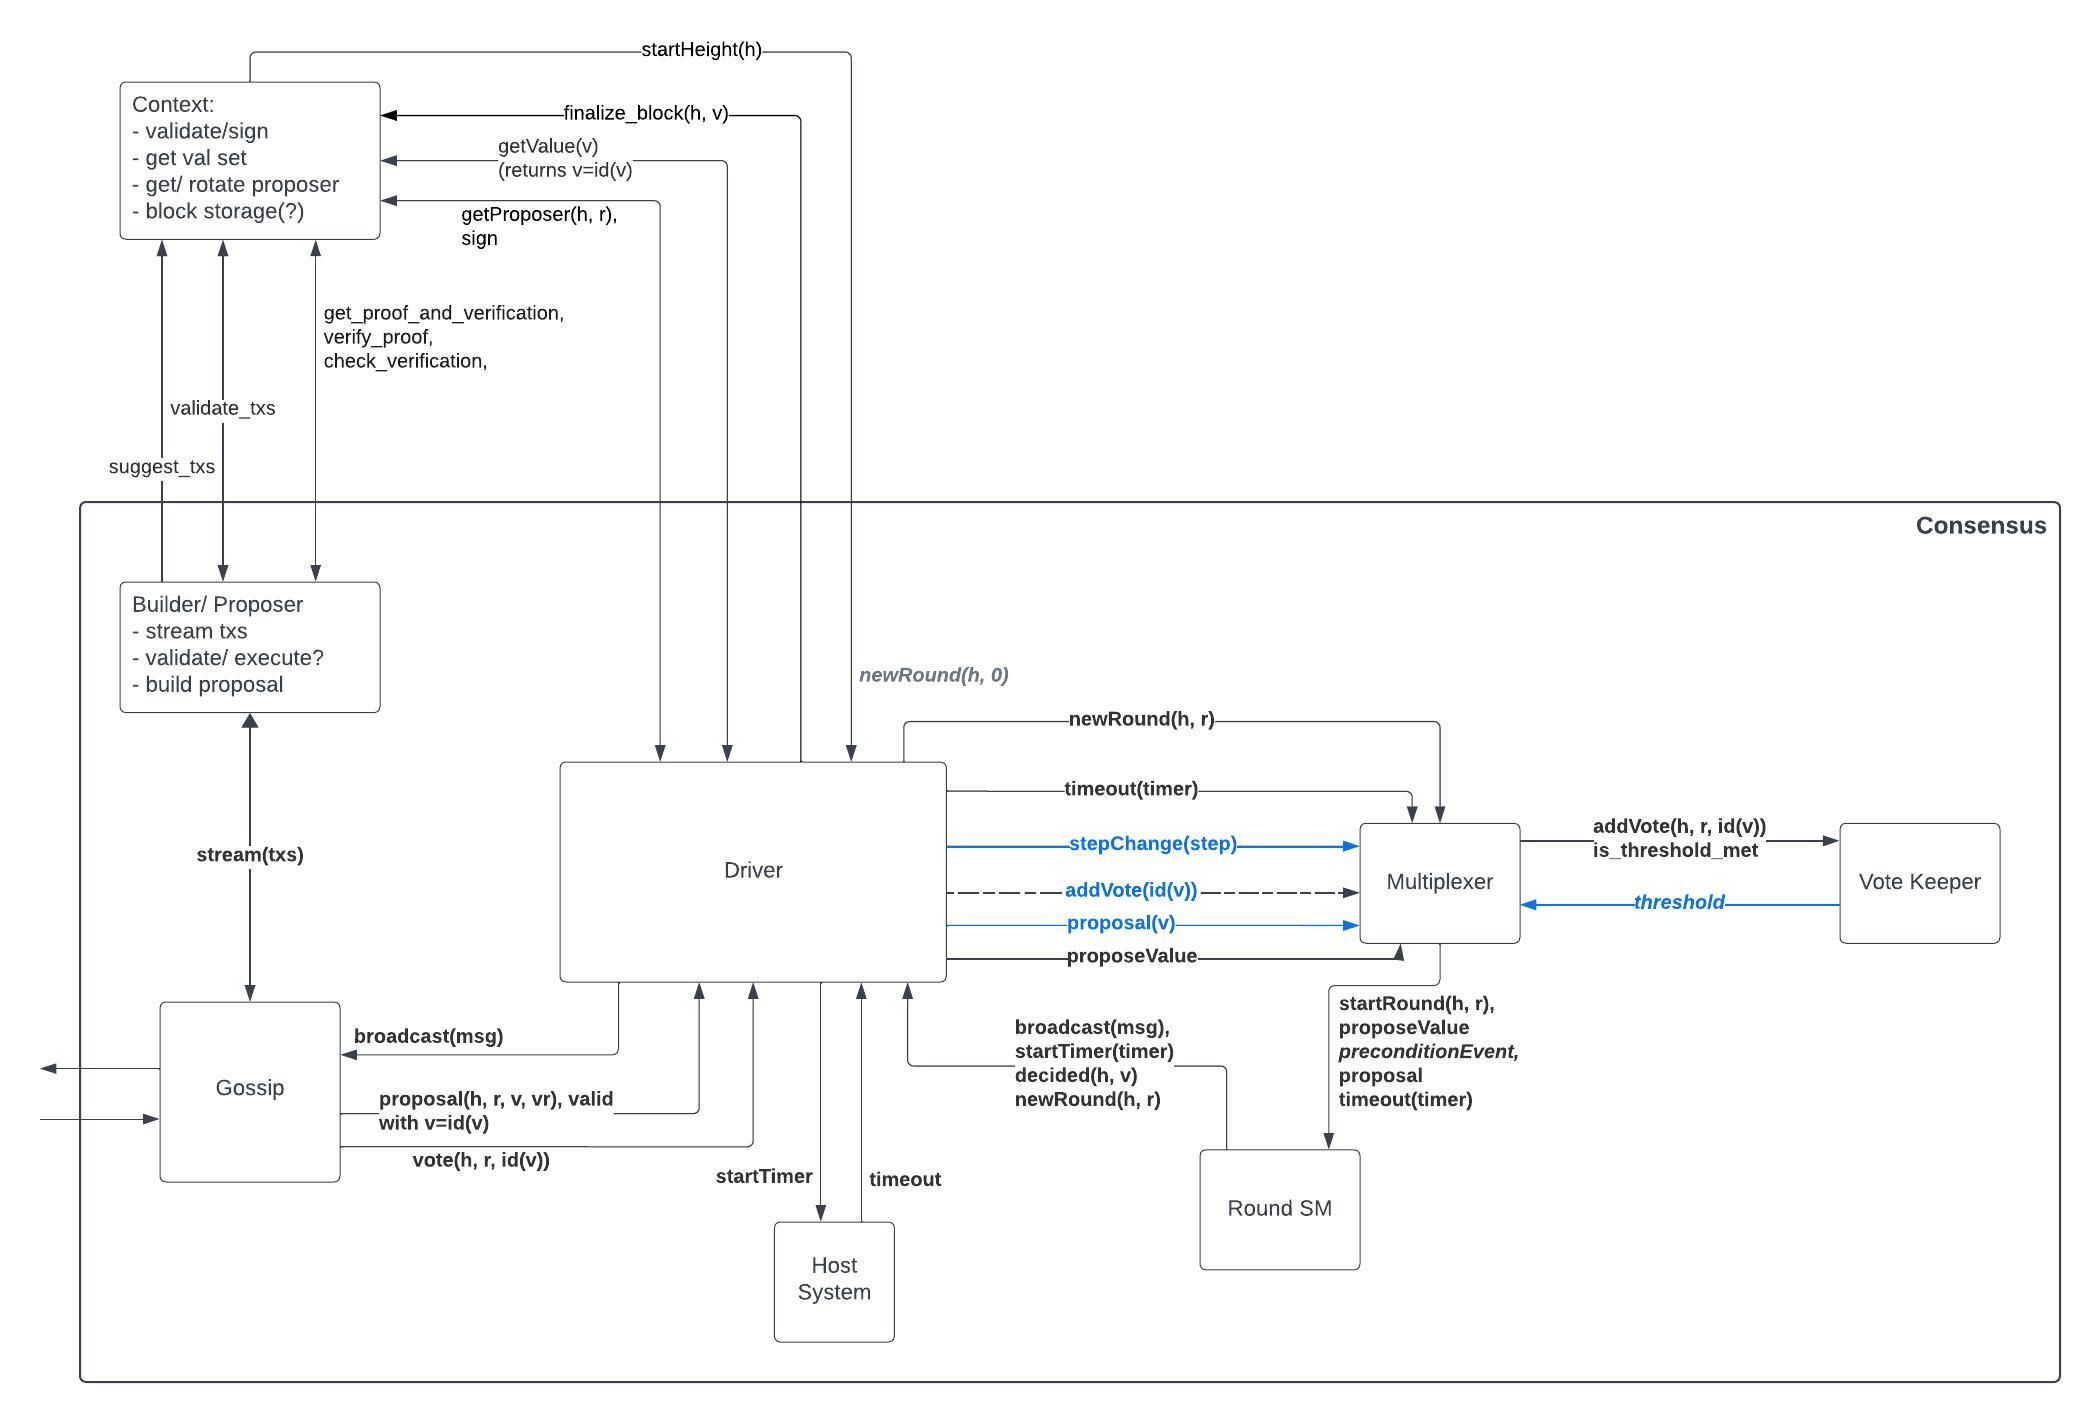
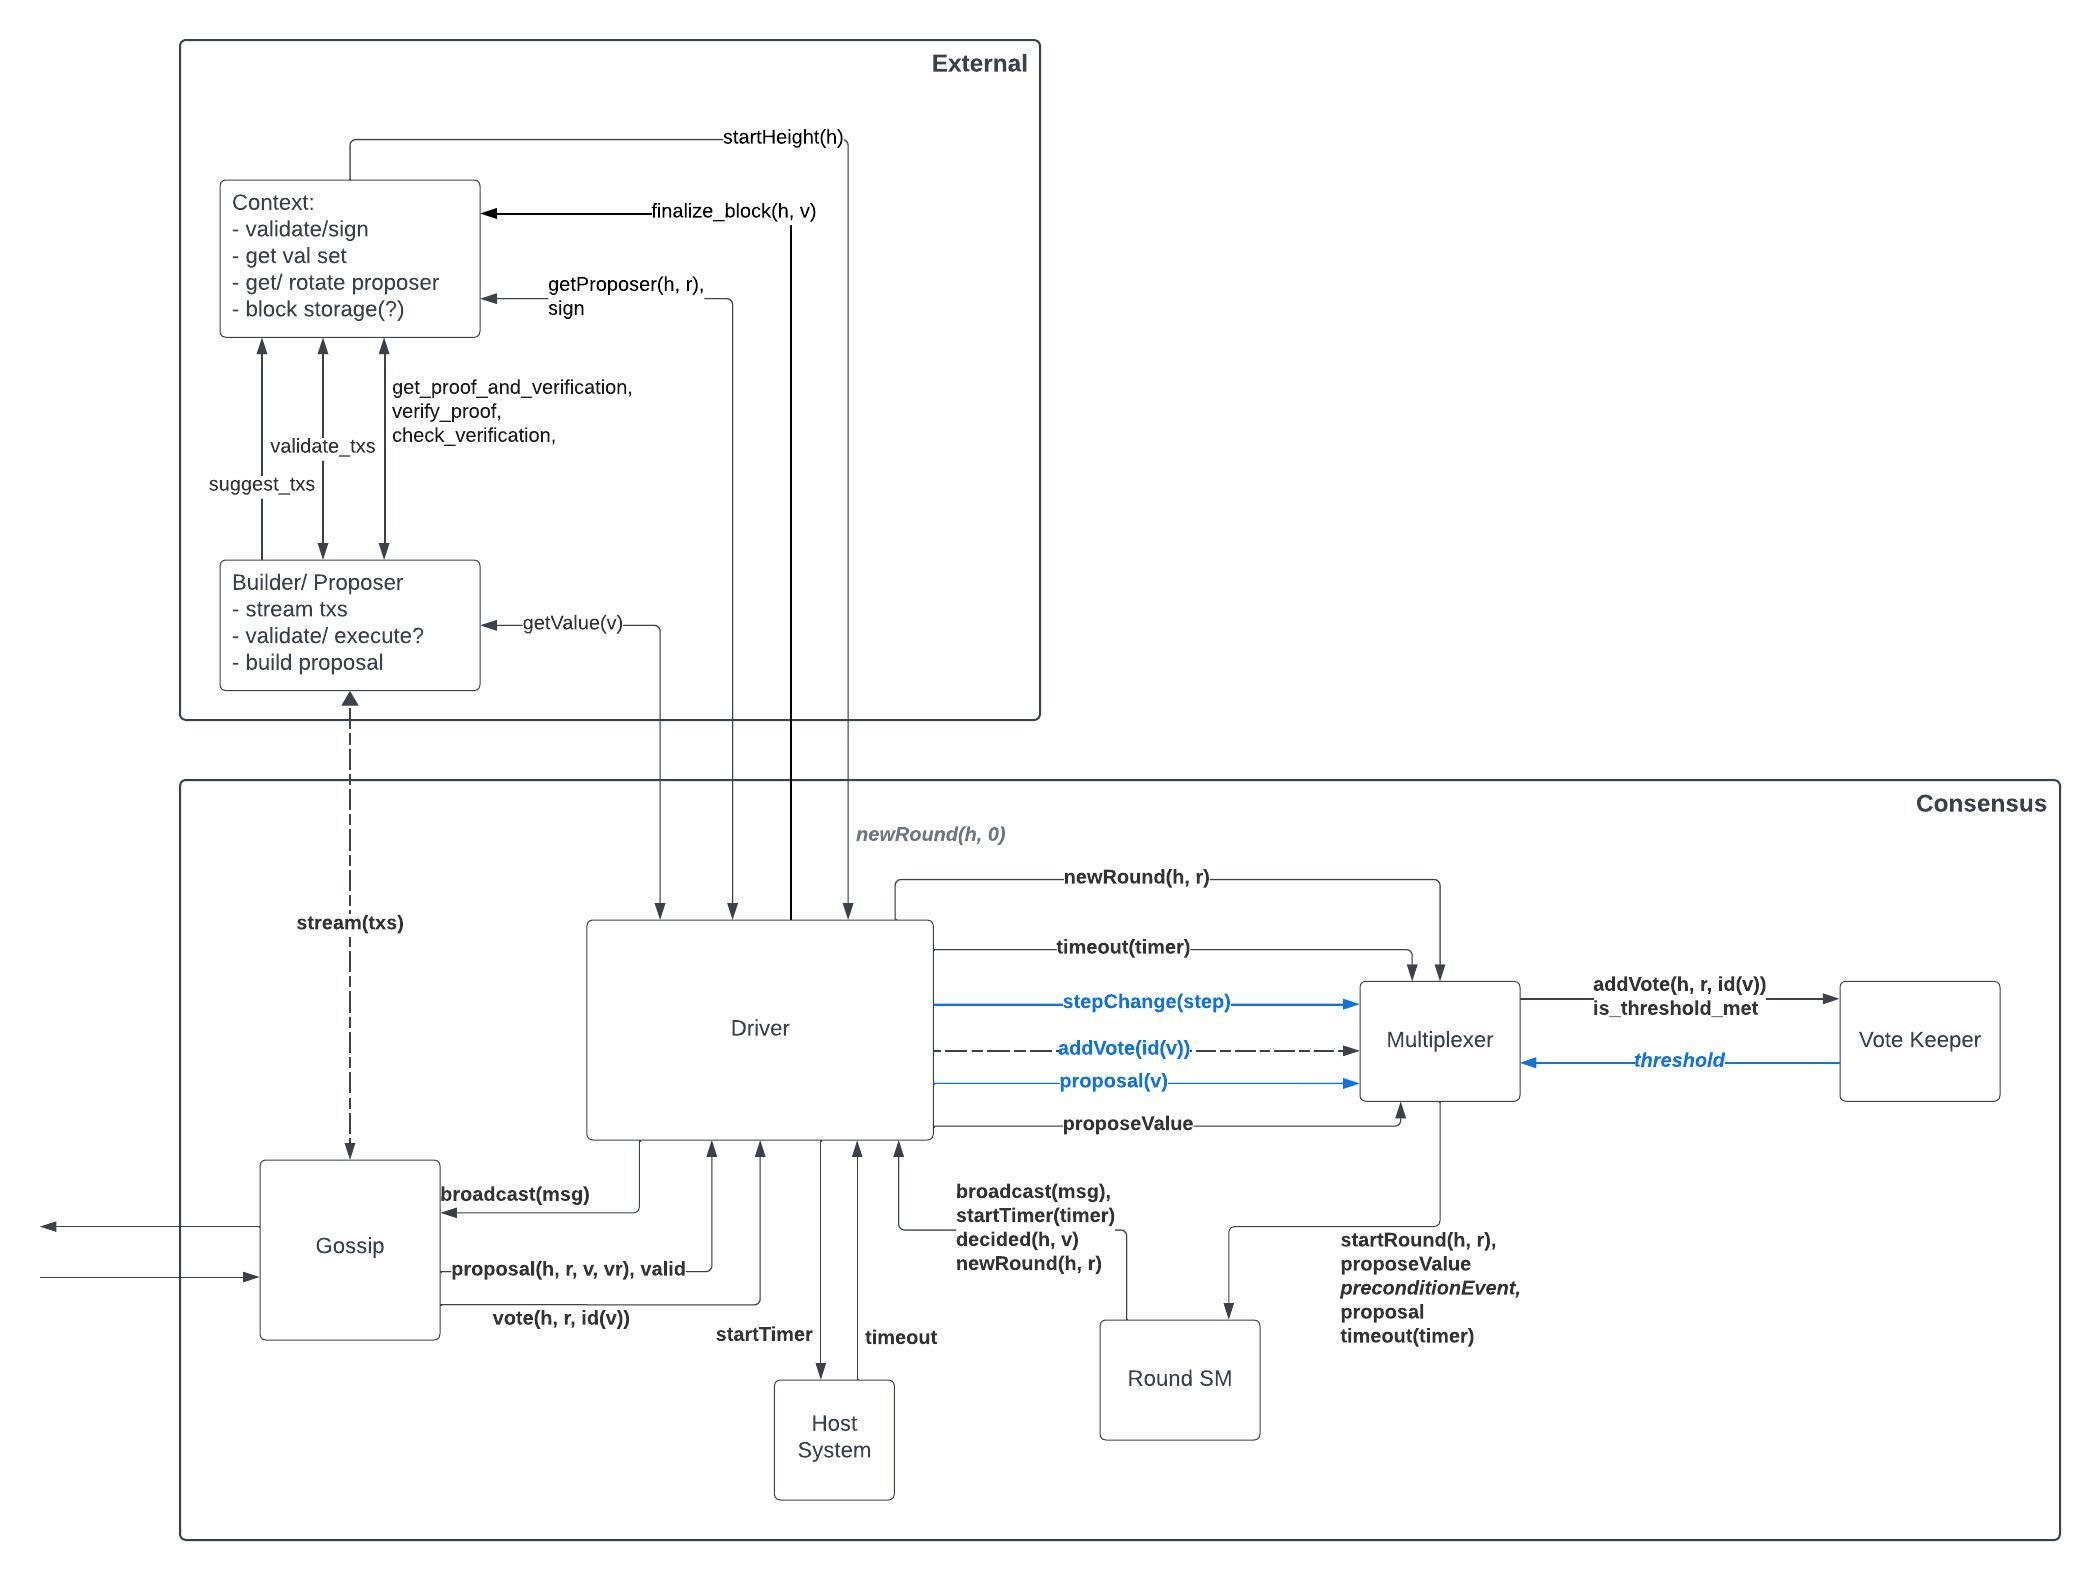
Update diagram, remove PolkaValue from round state machine

diff --git a/Code/round/src/input.rs b/Code/round/src/input.rs
@@ -33,10 +33,6 @@ where
     /// L28 + L29 (invalid)
     InvalidProposalAndPolkaPrevious(Ctx::Proposal),
 
-    /// Receive +2/3 prevotes for a value.
-    /// L44
-    PolkaValue(ValueId<Ctx>),
-
     /// Receive +2/3 prevotes for anything.
     /// L34
     PolkaAny,
@@ -92,7 +88,6 @@ impl<Ctx: Context> Clone for Input<Ctx> {
             Input::InvalidProposalAndPolkaPrevious(proposal) => {
                 Input::InvalidProposalAndPolkaPrevious(proposal.clone())
             }
-            Input::PolkaValue(value_id) => Input::PolkaValue(value_id.clone()),
             Input::PolkaAny => Input::PolkaAny,
             Input::PolkaNil => Input::PolkaNil,
             Input::ProposalAndPolkaCurrent(proposal) => {
@@ -129,9 +124,6 @@ impl<Ctx: Context> PartialEq for Input<Ctx> {
                 Input::InvalidProposalAndPolkaPrevious(proposal),
                 Input::InvalidProposalAndPolkaPrevious(other_proposal),
             ) => proposal == other_proposal,
-            (Input::PolkaValue(value_id), Input::PolkaValue(other_value_id)) => {
-                value_id == other_value_id
-            }
             (Input::PolkaAny, Input::PolkaAny) => true,
             (Input::PolkaNil, Input::PolkaNil) => true,
             (
@@ -176,7 +168,6 @@ where
             Input::InvalidProposalAndPolkaPrevious(proposal) => {
                 write!(f, "InvalidProposalAndPolkaPrevious({:?})", proposal)
             }
-            Input::PolkaValue(value_id) => write!(f, "PolkaValue({:?})", value_id),
             Input::PolkaAny => write!(f, "PolkaAny"),
             Input::PolkaNil => write!(f, "PolkaNil"),
             Input::ProposalAndPolkaCurrent(proposal) => {

diff --git a/Docs/architecture/adr-001-architecture.md b/Docs/architecture/adr-001-architecture.md
@@ -30,8 +30,6 @@ TODO: Do we need to describe the code layout and Rust crates, or is the descript
 ### Overview of the Tendermint Consensus Implementation 
 
 The consensus implementation consists of the following components:
-
-- Builder and Proposer Modules
 - Gossip Module
 - Host System
 - Consensus Driver
@@ -39,7 +37,14 @@ The consensus implementation consists of the following components:
 - Vote Keeper
 - Round State Machine
 
-It interacts with the external environment via the Context trait, which is described in more detail below.
+The Gossip module is not described in this document. It ensures that all messages sent by correct processes are eventually delivered to all correct processes.
+This is required by the progress and termination of consensus.
+It is likely that the Gossip module will be implemented as a separate crate. Its specification will be described in a separate document.
+
+The diagram shows the interactions between the consensus components and the external environment via the Context trait.
+The precise external APIs and interactions are still work in progress.
+It is likely that there exists a Builder/Proposer module that is responsible for building proposals that include transactions, state diffs and proofs.
+This module is also responsible for validating the proposals received by consensus.
 
 This specification describes the components used by the consensus algorithm and does not cover the Builder/Proposer and the Gossip modules.
 
@@ -424,10 +429,6 @@ pub enum Input<Ctx>
     /// Received a proposal and a polka value from a previous round.
     /// L28 + L29 (invalid)
     InvalidProposalAndPolkaPrevious(Ctx::Proposal),
-
-    /// Receive +2/3 prevotes for a value.
-    /// L44
-    PolkaValue(ValueId<Ctx>),
 
     /// Receive +2/3 prevotes for anything.
     /// L34
